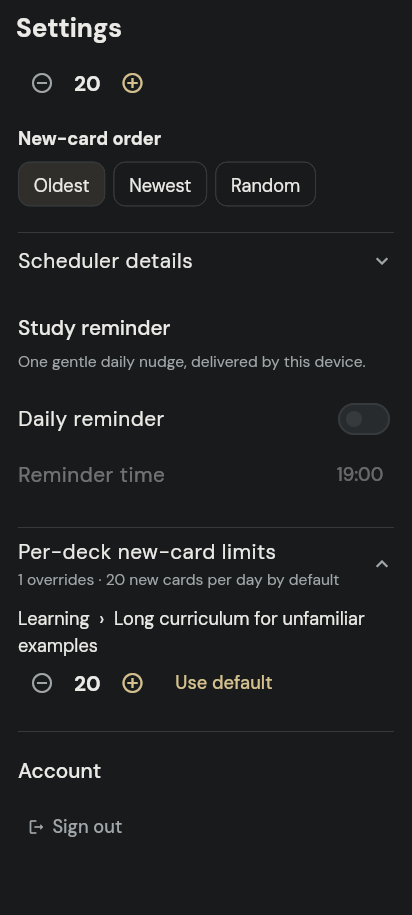
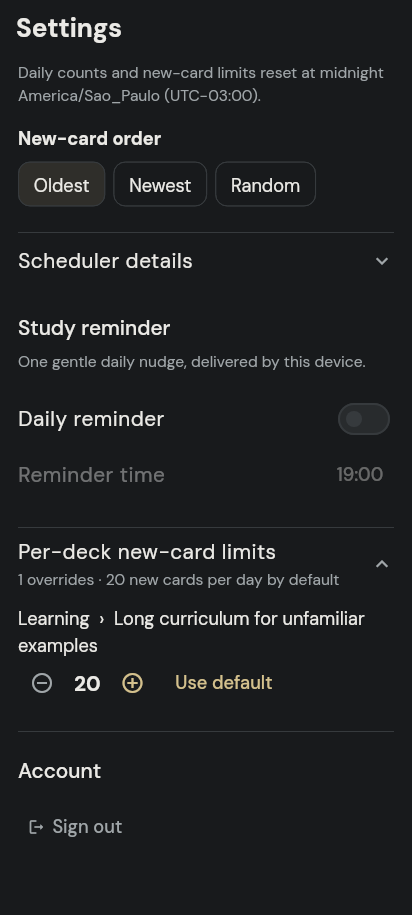
Refresh Settings goldens for daily reset text
Built by codex:gpt-6.1-sol:xhigh (HQ worker fl-recall-184-4-241553).

Changed region(s): [[0.0583, 0.0612, 0.932, 0.1224]]

diff --git a/reports/visual-20261024/findings.md b/reports/visual-20261024/findings.md
@@ -99,3 +99,20 @@ Added the missing PNGs using the unchanged synthetic harness and pinned Flutter
 Inspected contact sheets for all 51 captures, then compared every image without
 `--update-goldens`. No application source, existing test or assertion changed.
 See the hosted-CI fix results appended to `validation.txt`.
+
+## PR #184 CI fix: daily reset text in Settings
+
+The daily-count branch adds `StudyDay.resetDescription` below the new-card
+limit, while these baselines predate that text. The unchanged visual test on
+Flutter 3.47.1 reproduced CI's exact Settings differences: 28,972 pixels at
+360px, 36,672 at 412px, and 30,067 at 1280px. This is a baseline mismatch with
+the PR's intended UI change, rather than a timing, temporary-directory or umask
+failure.
+
+Regenerated all 51 captures with the existing synthetic harness. Only seven
+Settings PNGs changed: the three initial views, all three scrolled views, and
+the 412px expanded view. The first mismatch previously stopped each viewport
+test before it could compare the later Settings captures. Visually inspected
+all seven replacements; the reset explanation wraps without clipping and the
+remaining controls retain their layout. Application source, test source and
+pixel comparison strictness are unchanged.
